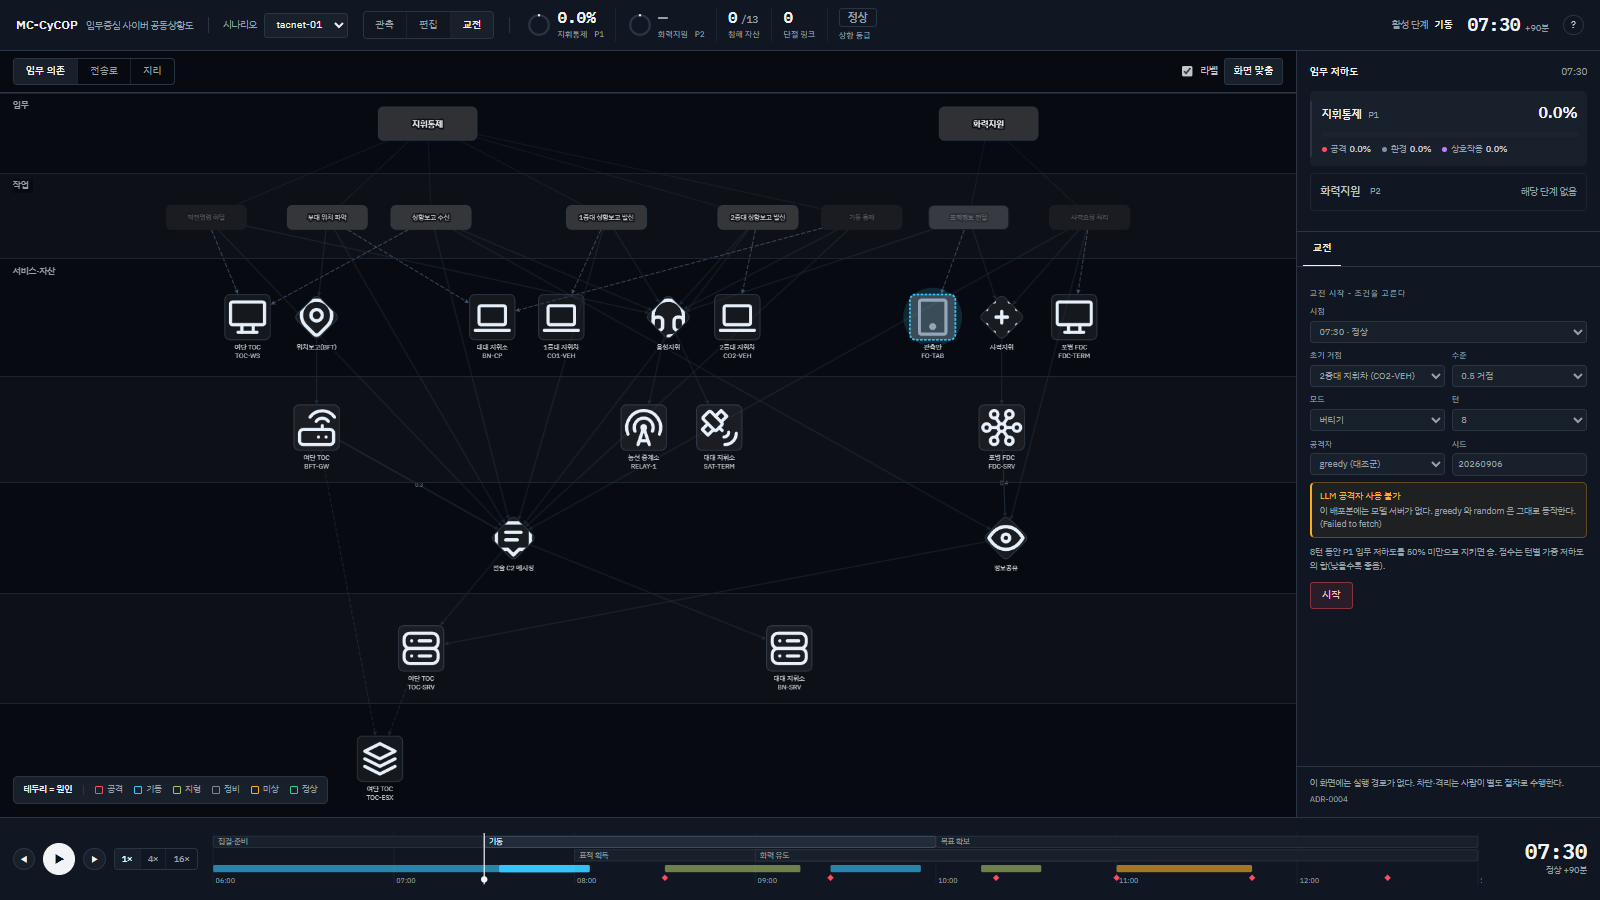
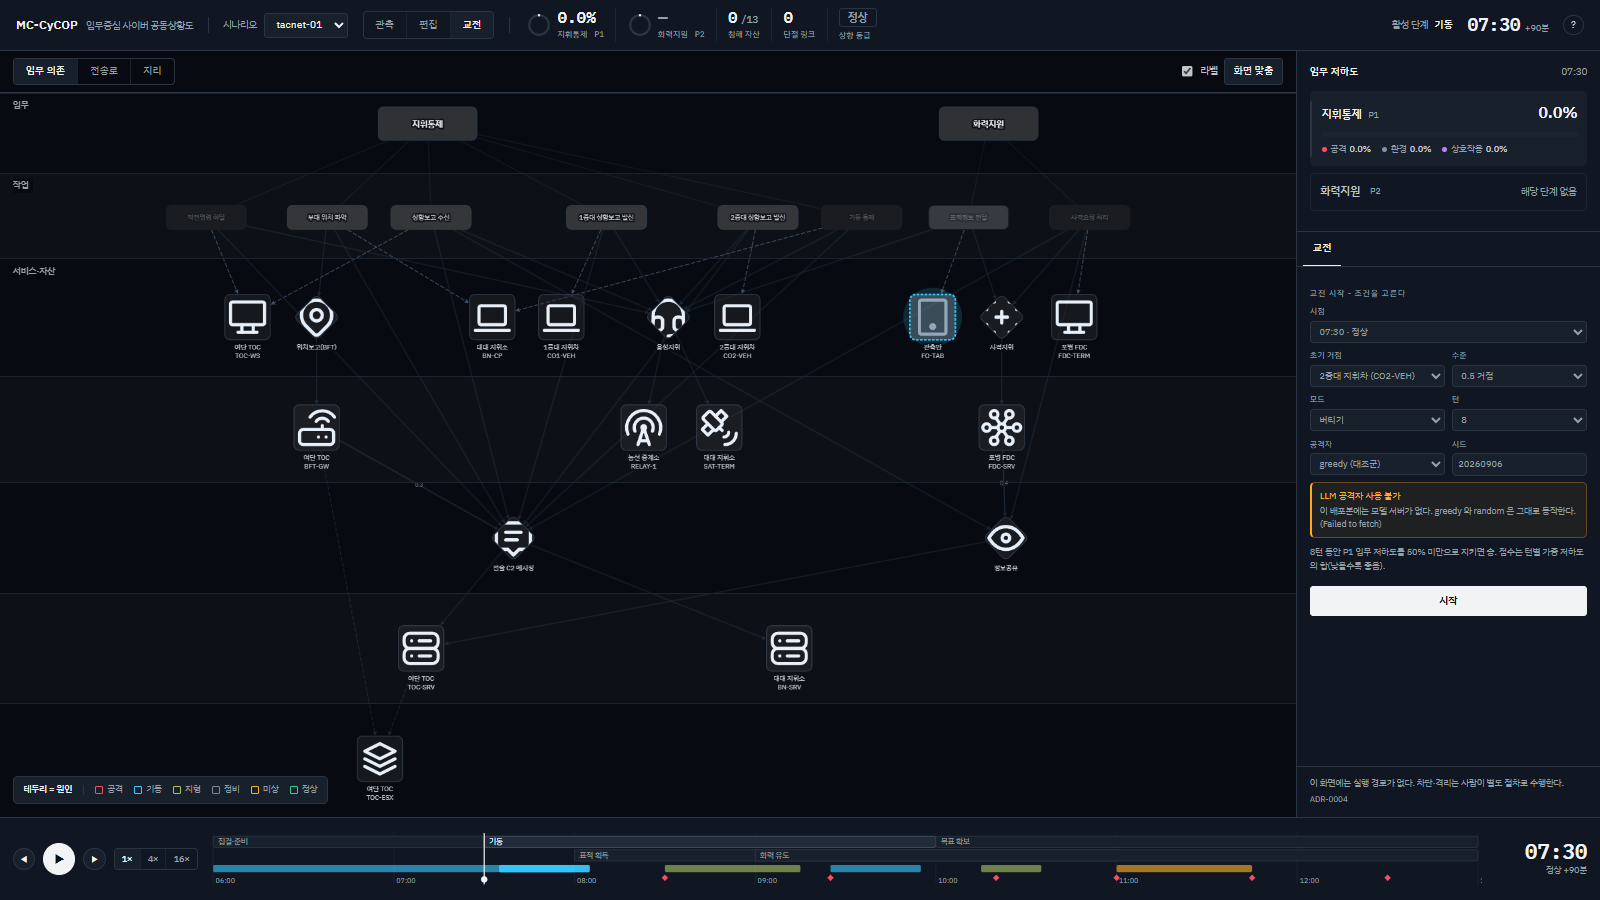
docs: 교전 문서를 docs/22 로, 격리 비용이 대응 탭과 다를 수 있음을 바로 적는다. 참모 F1 턴 번호와 시작 버튼 색

Changed region(s): [[0.8125, 0.6533, 1.0, 0.6844]]

diff --git a/ui/src/ui/Wargame.jsx b/ui/src/ui/Wargame.jsx
@@ -73,7 +73,7 @@ function StartCard({ graph, payload, idx, llmOk, llmNote, onStart }) {
       </div>
       {!llmOk && llmNote && <div className="wg-llm-note">LLM 공격자 사용 불가<span>{llmNote}</span></div>}
       <p className="rail-caption">{mode === 'hold' ? `${turns}턴 동안 P1 임무 저하도를 50% 미만으로 지키면 승. 점수는 턴별 가중 저하도의 합(낮을수록 좋음).` : `${turns}턴 동안 crown jewel 이 장악되지 않으면 승. 점수 = 버틴 턴×100 − 격리 비용.`}</p>
-      <button type="button" className="wg-go" onClick={() => onStart({ mode, turns, t, foothold: { id: footId, level }, seed, strategy, method: 'weighted' }, stepIdx)}>시작</button>
+      <button type="button" className="wg-start-go" onClick={() => onStart({ mode, turns, t, foothold: { id: footId, level }, seed, strategy, method: 'weighted' }, stepIdx)}>시작</button>
     </div>
   )
 }

diff --git a/ui/src/styles/modules.css b/ui/src/styles/modules.css
@@ -161,6 +161,8 @@ body .geo-canvas:active { cursor: grabbing; }
 .wg-pick input { width: 92px; background: var(--bg-3); border: 1px solid var(--line); border-radius: 6px; }
 .wg-go { margin-left: auto; padding: 6px 14px; border-color: rgba(255,77,94,.45); color: #ffc2c7; background: rgba(255,77,94,.1); }
 .wg-go:hover:not(:disabled) { background: rgba(255,77,94,.18); border-color: rgba(255,77,94,.7); }
+/* the start card's button is the defender's, not the attacker's: achromatic */
+.wg-start-go { width: 100%; padding: 7px 14px; margin-top: 6px; background: var(--text-primary); color: var(--surface-app); border-color: var(--text-primary); font-weight: 600; }
 
 .wg-result {
   border: 1px solid var(--line); border-left-width: 3px; border-radius: 6px;

diff --git a/docs/22-wargame.md b/docs/22-wargame.md
@@ -1,8 +1,14 @@
-# 교전 모드 - 규칙, 참모, 화면, 재현
+# 22. 교전 모드 - 규칙, 참모, 화면, 재현
 
-근거는 ADR-0026(교전 규칙)과 ADR-0019(공격자 엔진). 설계 논의는
+**근거**: ADR-0026(교전 규칙), ADR-0019(공격자 엔진), ADR-0003/0004(모델은 상태를 정하지
+않고 실행 경로는 없다)
+**상태**: 구현 완료(2026-09-20, 브랜치 `ui/wargame-v2`). 설계 논의는
 `docs/superpowers/specs/2026-09-20-wargame-v2-design.md`, 구현 결정은
-`docs/design/decisions.md` "2026-09-20" 절. 코드는 `ui/src/game.js`(게임 코어, 순수 함수),
+`docs/design/decisions.md` "2026-09-20" 절.
+
+---
+
+코드는 `ui/src/game.js`(게임 코어, 순수 함수),
 `ui/src/attack.js`(공격자 엔진), `ui/src/ui/Wargame.jsx`(패널), `ui/src/staff-llm.mjs`(참모
 문장), `ui/src/derive.js` `gameOverlay`(그림에 올릴 파생값).
 
@@ -17,7 +23,7 @@
 |---|---|---|
 | 시작 조건 | 시점 `t`(replay step), 초기 거점(자산 + 수준 0.5/0.8), 모드(hold/jewel), 턴 수(4/8/12), 공격자(greedy/random/LLM), 시드 | `startGame(g, cfg)` |
 | 턴 순서 | 방어 페이즈(격리 1회 또는 생략) → 공격 페이즈(엔진이 수를 고르고 판정) → 평가. `turns` 회 반복 | `defend` / `pass` → `attackerTurn` → `evaluate` |
-| 격리 - 임무 쪽 | 격리 자산은 `compromise = 1`(미가용)로 엔진에 들어간다. 대응 탭의 what-if 와 같은 산식이라 비용이 같은 숫자로 나온다 | `compromiseOf(G)`, `isolationCost` |
+| 격리 - 임무 쪽 | 격리 자산은 `compromise = 1`(미가용)로 엔진에 들어간다. 대응 탭과 같은 엔진 what-if 를 쓰되, 게임의 비용은 임무 전체의 **우선순위 가중합**(Σ delta / priority)이고 대응 탭은 **가장 나빠지는 임무 하나의 delta** 를 보인다. 다른 임무의 delta 가 0 이 아니면 두 숫자는 다르다 | `compromiseOf(G)`, `isolationCost` |
 | 격리 - 공격자 쪽 | 격리 자산은 공격자에게 **없는 자산**이다. 거점(`footholds`)·경유(`reachableFrom`)·표적(`legalMoves`) 전부에서 빠진다 | `attack.js` `opts.isolated` |
 | 격리 횟수 | 턴당 1회, 영구. 되돌리는 행동은 없다 | `defend` 가 `phase === 'defend'` 에서만 동작 |
 | 판정 | 합법수마다 성공 확률 `p`(정찰 0.95, 자격증명 탈취 0.7, 측면 이동 0.6, 권한 상승 0.65, 서비스 거부 0.8). `roll = rng(seed ^ hash(turn|move.id))`, `roll < p` 이면 성공 | `playTurn` |
@@ -34,7 +40,8 @@
 **격리 자산의 그림.** 엔진은 격리 자산을 미가용(침해 1)로 보지만 그것은 방어자의 표시이지
 적의 효과가 아니다(ADR-0012). 그래서 그래프에서는 붉은 침해 칠 대신 무채 이중선 테두리,
 지도에서는 `outage` 색 마커에 `is-isolated` 이중 링으로 그리고, 상단 띠의 "침해 자산" 칸은
-격리 수를 빼고 센 뒤 `격리 N` 을 따로 붙인다.
+격리 수를 빼고 센 뒤 `격리 N` 을 따로 붙인다. 즉 침해 자산 칸은 "침해이면서 격리 안 된
+자산" 의 수다.
 
 ## 2. 참모
 
@@ -46,7 +53,7 @@
 
 | 열 | 뜻 | 계산 |
 |---|---|---|
-| `cost` | 격리했을 때 임무가 얼마나 더 나빠지는가 | `weightedOf(격리 후) − weightedOf(격리 전)`. 대응 탭 what-if 와 같은 값 |
+| `cost` | 격리했을 때 임무가 얼마나 더 나빠지는가 | `weightedOf(격리 후) − weightedOf(격리 전)`, 즉 `Σ_missions delta / priority`. 같은 엔진 what-if(격리 = compromise 1)지만 대응 탭은 가장 나빠지는 임무 하나의 delta 를 보이므로 두 값은 다를 수 있다 |
 | `blocks` | 공격자의 현재 합법수 중 몇 개가 사라지는가 | `legalMoves(isolated ∪ {id})` 에 없는 수의 개수 |
 | `gainBlocked` | 사라지는 수 가운데 가장 큰 예상 이득 | `max(gain)` of 사라지는 수 |
 | `net` | 순이익 | `gainBlocked − cost` |
@@ -60,7 +67,7 @@
 누르면 순위표를 사실 목록으로 바꿔 넘긴다:
 
 ```
-F1: 턴 2/4, 모드 hold, 현재 P1 임무 저하도 21.4%
+F1: 턴 2/4, 모드 hold, 현재 P1 임무 저하도 21.4%     (턴 번호는 화면과 같은 1부터)
 F2: 2중대 지휘차(CO2-VEH) 격리: 임무 비용 +0.0%p, 막는 공격 수 12개, 차단하는 최대 이득 16.1%, 순위 1
 F3: 능선 중계소(RELAY-1) 격리: 임무 비용 +0.0%p, 막는 공격 수 10개, 차단하는 최대 이득 16.1%, 순위 2
 ...  (상위 5 까지, F6)

diff --git a/docs/superpowers/plans/2026-09-20-wargame-v2.md b/docs/superpowers/plans/2026-09-20-wargame-v2.md
@@ -44,7 +44,7 @@
 | `ui/src/ui/Topbar.jsx` | 교전 KPI 칸 | 수정 |
 | `ui/src/ui/Onboard.jsx` | 7번 문장 | 수정 |
 | `ui/src/styles/modules.css`, `ui/src/style.css` | 교전 CSS | 수정 |
-| `docs/adr/0026-wargame-rules.md`, `docs/20-wargame.md`, `docs/design/decisions.md`, `STATE.md`, `docs/adr/README.md` | 문서 | 신규/수정 |
+| `docs/adr/0026-wargame-rules.md`, `docs/22-wargame.md`, `docs/design/decisions.md`, `STATE.md`, `docs/adr/README.md` | 문서 | 신규/수정 |
 
 ---
 
@@ -1137,7 +1137,7 @@ ui: 교전이 그림에 나온다 - 공격자 후보수 유령 화살표, 판정
 
 **Files:**
 - Modify: `ui/src/ui/Topbar.jsx`, `ui/src/App.jsx`(Topbar 에 `game`), `ui/src/ui/Onboard.jsx`, `docs/design/decisions.md`, `docs/adr/README.md`, `STATE.md`
-- Create: `docs/adr/0026-wargame-rules.md`, `docs/20-wargame.md`, `docs/design/screens/2026-09-20-wargame-{start,play,aar}.png`
+- Create: `docs/adr/0026-wargame-rules.md`, `docs/22-wargame.md`, `docs/design/screens/2026-09-20-wargame-{start,play,aar}.png`
 
 - [ ] **Step 1: Topbar** — prop `game`; `k.missions` 칸들 뒤에:
 ```jsx
@@ -1197,10 +1197,10 @@ LLM 이 방어 행동을 고르는 경로.
 ## 결과
 
 `ui/src/game.js`(순수, 테스트 12), `Wargame.jsx`, `attack.js` `isolated` 옵션(기본 경로
-불변, `ui/tools/parity.mjs` 통과). 상세 규칙과 재현 방법: `docs/20-wargame.md`.
+불변, `ui/tools/parity.mjs` 통과). 상세 규칙과 재현 방법: `docs/22-wargame.md`.
 ```
 
-- [ ] **Step 4: docs/20-wargame.md** — 절: 1 규칙(위 ADR 1~3 을 표로), 2 참모 산식과 사실 F# 형식, 3 화면(시작 카드/진행/AAR 스크린샷 3장 링크), 4 재현(같은 시드 두 판 = 같은 history, `npm test` 의 game.test.js), 5 알려진 한계(방어 행동 하나, LLM 공격자는 Ollama 필요, hold 점수는 낮을수록 좋음이라 jewel 과 방향이 다름 - 화면에 명시함).
+- [ ] **Step 4: docs/22-wargame.md** — 절: 1 규칙(위 ADR 1~3 을 표로), 2 참모 산식과 사실 F# 형식, 3 화면(시작 카드/진행/AAR 스크린샷 3장 링크), 4 재현(같은 시드 두 판 = 같은 history, `npm test` 의 game.test.js), 5 알려진 한계(방어 행동 하나, LLM 공격자는 Ollama 필요, hold 점수는 낮을수록 좋음이라 jewel 과 방향이 다름 - 화면에 명시함).
 
 - [ ] **Step 5: decisions.md 절 추가** `## 2026-09-20 - 교전 모드 2차 (ADR-0026)`: 격리 거점 버그, 순수 코어로 옮긴 이유, 참모가 읽기만 하는 이유, hold/jewel 점수 방향 차이를 화면에 적은 이유. `docs/adr/README.md` 에 0026 행. `STATE.md` 한눈에 UI 행에 "교전 2차(09-20, ADR-0026)" 추가 + 새 절 6줄.
 

diff --git a/docs/superpowers/specs/2026-09-20-wargame-v2-design.md b/docs/superpowers/specs/2026-09-20-wargame-v2-design.md
@@ -129,7 +129,7 @@ last: {from, to, success} | null, isolated: [ids], footholds: [ids] }`. App 이 
 ## 6. 파일 · 검증
 
 신규: `ui/src/game.js`, `ui/src/__tests__/game.test.js`, `ui/src/ui/Wargame.jsx`,
-`ui/src/staff-llm.mjs`, `docs/adr/0026-wargame-rules.md`, `docs/20-wargame.md`.
+`ui/src/staff-llm.mjs`, `docs/adr/0026-wargame-rules.md`, `docs/22-wargame.md`.
 수정: `ui/src/attack.js`(`isolated` 옵션, 기본 없음 → parity 불변), `derive.js`,
 `App.jsx`(game reducer, `computeStep` 에 `compromiseOf(game)`), `GraphCanvas.jsx`,
 `MapPane.jsx`, `mapLayers.js`(threat 레이어), `Topbar.jsx`, `Rail.jsx`, `Onboard.jsx`

diff --git a/STATE.md b/STATE.md
@@ -16,7 +16,7 @@
 
 ## 2026-09-20 - 교전 모드 2차
 
-교전 모드를 게임으로 만들었다(ADR-0026, `docs/20-wargame.md`). 브랜치 `ui/wargame-v2`.
+교전 모드를 게임으로 만들었다(ADR-0026, `docs/22-wargame.md`). 브랜치 `ui/wargame-v2`.
 **격리가 공격자의 거점으로 세어지던 버그**를 잡았다 - 격리는 임무 엔진에 미가용, 공격자에게는
 없는 자산이다(`attack.js` `isolated` 옵션, 기본 경로 불변). `game.js`(순수 코어) +
 `Wargame.jsx`(시작 카드·방어/공격 페이즈·참모 카드·AAR), hold/jewel 두 모드, 그래프·지도에

diff --git a/docs/adr/0026-wargame-rules.md b/docs/adr/0026-wargame-rules.md
@@ -34,4 +34,4 @@ LLM 이 방어 행동을 고르는 경로.
 ## 결과
 
 `ui/src/game.js`(순수, 테스트 13), `Wargame.jsx`, `attack.js` `isolated` 옵션(기본 경로
-불변, `ui/tools/parity.mjs` 통과). 상세 규칙과 재현 방법: `docs/20-wargame.md`.
+불변, `ui/tools/parity.mjs` 통과). 상세 규칙과 재현 방법: `docs/22-wargame.md`.
